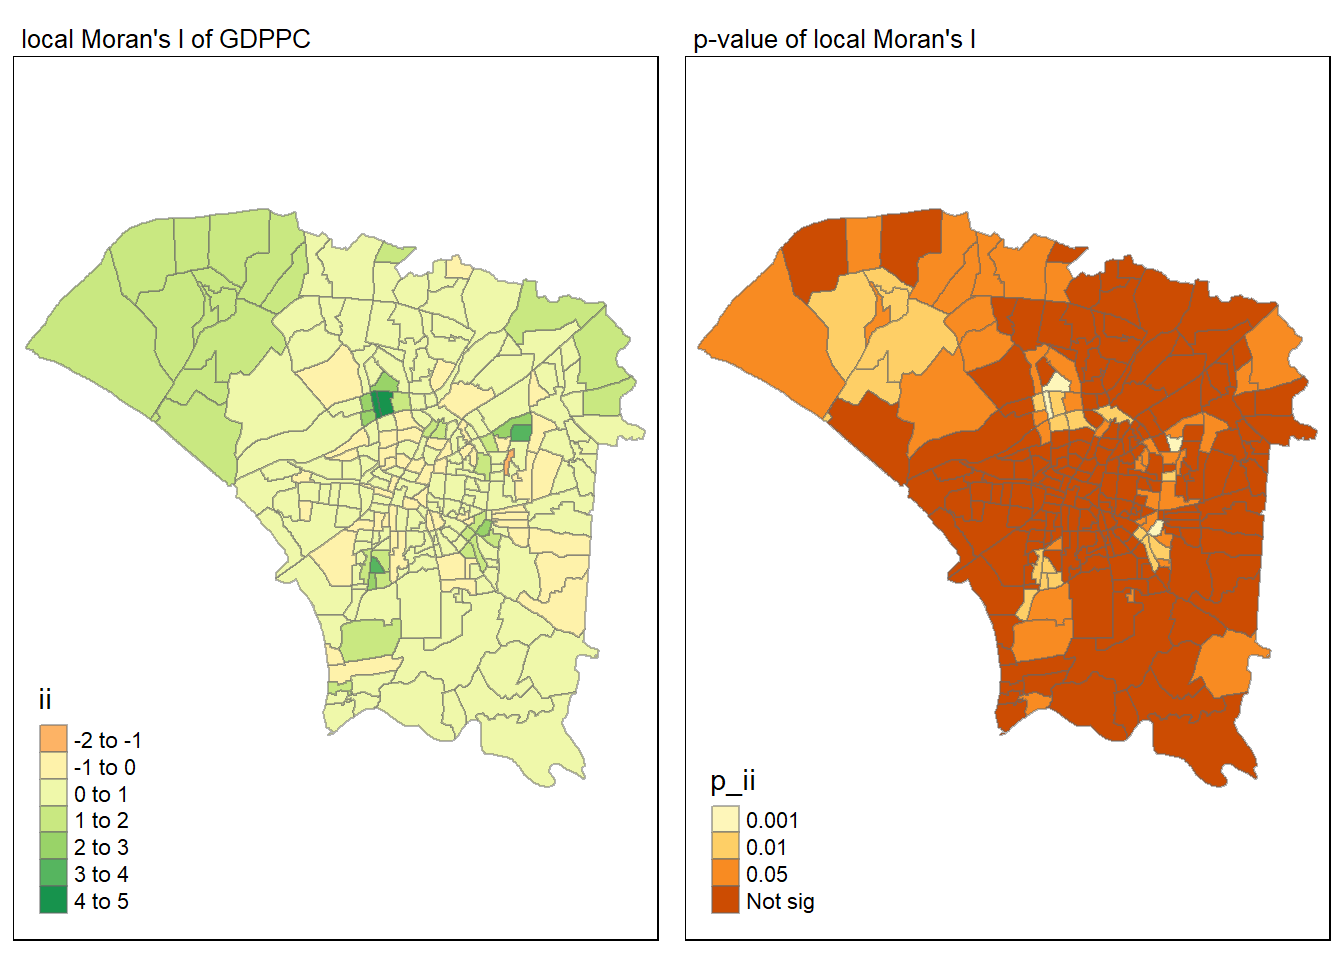
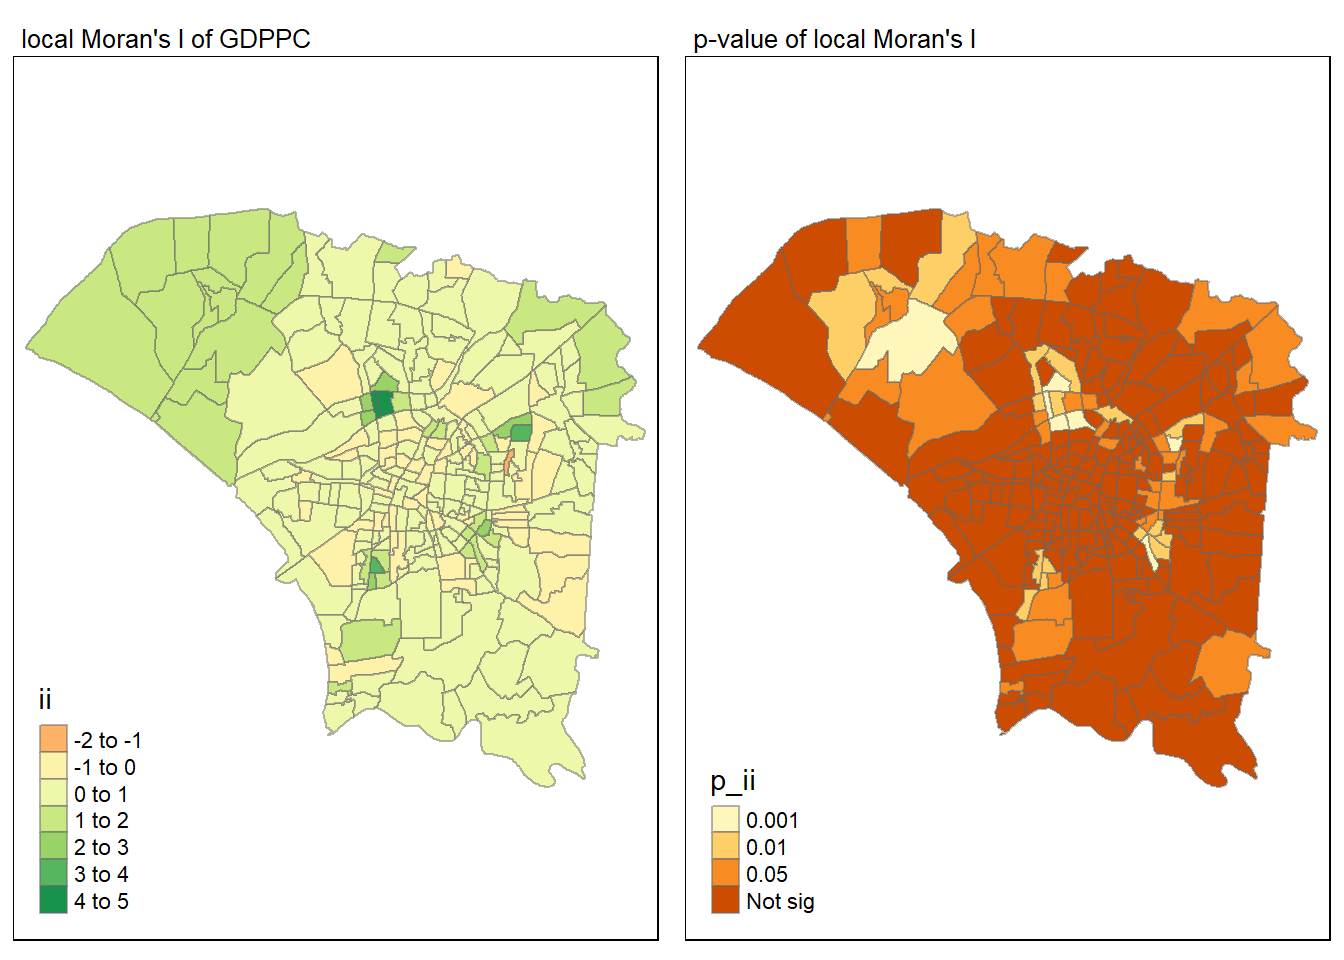
Update take home 2 directory

diff --git a/_site/Take-home_Ex/Take-home_Ex02/Take-home_Ex02.html b/_site/Take-home_Ex/Take-home_Ex02/Take-home_Ex02.html
@@ -233,8 +233,15 @@ pre > code.sourceCode > span > a:first-child::before { text-decoration: underlin
   <ul class="collapse">
   <li><a href="#using-global-morans-i" id="toc-using-global-morans-i" class="nav-link" data-scroll-target="#using-global-morans-i">8.1 Using Global Moran’s I</a></li>
   <li><a href="#using-global-morans-i-with-permutation" id="toc-using-global-morans-i-with-permutation" class="nav-link" data-scroll-target="#using-global-morans-i-with-permutation">8.2 Using Global Moran’s I with permutation</a></li>
+  </ul></li>
+  <li><a href="#local-spatial-autocorrelation-analysis" id="toc-local-spatial-autocorrelation-analysis" class="nav-link" data-scroll-target="#local-spatial-autocorrelation-analysis">9.0 Local Spatial Autocorrelation Analysis</a>
+  <ul class="collapse">
   <li><a href="#computing-the-local-indicator-of-spatial-association-lisa" id="toc-computing-the-local-indicator-of-spatial-association-lisa" class="nav-link" data-scroll-target="#computing-the-local-indicator-of-spatial-association-lisa">9.1 Computing the Local Indicator of Spatial Association (LISA)</a></li>
   <li><a href="#visuaising-local-morans-i-and-p-value-we-will-visualise-the-local-spatial-autocorrelation-using-a-map-together-with-the-p-value.-this-allows-for-the-identification-of-the-clusters-and-outliers-in-the-number-of-dengue-cases-in-tainan-city-that-are-significant-at-the-0.05-level." id="toc-visuaising-local-morans-i-and-p-value-we-will-visualise-the-local-spatial-autocorrelation-using-a-map-together-with-the-p-value.-this-allows-for-the-identification-of-the-clusters-and-outliers-in-the-number-of-dengue-cases-in-tainan-city-that-are-significant-at-the-0.05-level." class="nav-link" data-scroll-target="#visuaising-local-morans-i-and-p-value-we-will-visualise-the-local-spatial-autocorrelation-using-a-map-together-with-the-p-value.-this-allows-for-the-identification-of-the-clusters-and-outliers-in-the-number-of-dengue-cases-in-tainan-city-that-are-significant-at-the-0.05-level.">9.2 Visuaising local Moran’s I and p-value We will visualise the local spatial autocorrelation using a map together with the p value. This allows for the identification of the clusters and outliers in the number of dengue cases in Tainan City that are significant at the 0.05 level.</a></li>
+  <li><a href="#visualising-lisa-map" id="toc-visualising-lisa-map" class="nav-link" data-scroll-target="#visualising-lisa-map">9.3 Visualising LISA map</a></li>
+  </ul></li>
+  <li><a href="#emerging-hotspot-analysis-ehsa" id="toc-emerging-hotspot-analysis-ehsa" class="nav-link" data-scroll-target="#emerging-hotspot-analysis-ehsa">10.0 Emerging Hotspot Analysis (EHSA)</a>
+  <ul class="collapse">
   <li><a href="#creating-a-time-series-cube" id="toc-creating-a-time-series-cube" class="nav-link" data-scroll-target="#creating-a-time-series-cube">10.1 Creating a Time Series Cube</a></li>
   <li><a href="#deriving-spatial-weight-matrix" id="toc-deriving-spatial-weight-matrix" class="nav-link" data-scroll-target="#deriving-spatial-weight-matrix">10.2 Deriving Spatial Weight Matrix</a></li>
   <li><a href="#computing-local-gi-statistics" id="toc-computing-local-gi-statistics" class="nav-link" data-scroll-target="#computing-local-gi-statistics">10.3 Computing Local Gi* Statistics</a></li>
@@ -689,9 +696,11 @@ alternative hypothesis: two.sided</code></pre>
 </div>
 </div>
 <p>The global Moran’s I value is 0.2 and the p-value is 0.001. This indicates that there is a significant spatial autocorrelation in the number of dengue cases in Tainan City, in our interest of village studies. This results is consistent with the previous test.</p>
-<p>#9.0 Local Spatial Autocorrelation Analysis</p>
-<p>We will now perform local spatial autocorrelation analysis to identify the clusters and outliers in the number of dengue cases in Tainan City. We will be using the <code>sfdep</code> package to perform the local spatial autocorrelation analysis.This analysis will go into the localised spatial patterns of the dengue cases in our interest of study.</p>
 </section>
+</section>
+<section id="local-spatial-autocorrelation-analysis" class="level1">
+<h1>9.0 Local Spatial Autocorrelation Analysis</h1>
+<p>We will now perform local spatial autocorrelation analysis to identify the clusters and outliers in the number of dengue cases in Tainan City. We will be using the <code>sfdep</code> package to perform the local spatial autocorrelation analysis.This analysis will go into the localised spatial patterns of the dengue cases in our interest of study.</p>
 <section id="computing-the-local-indicator-of-spatial-association-lisa" class="level2">
 <h2 class="anchored" data-anchor-id="computing-the-local-indicator-of-spatial-association-lisa">9.1 Computing the Local Indicator of Spatial Association (LISA)</h2>
 <div class="cell">
@@ -737,7 +746,9 @@ alternative hypothesis: two.sided</code></pre>
 <li><p>There are many outliers of villages which are associated with relatively low values of surrounding villages, these results are significant at the 0.05 level.</p></li>
 <li><p>The map also shows an outlier indicated in orange. This outlier is significant at the 0.05 level. This indicates that there are some villages that have a low number of dengue cases and are surrounded by villages with a high number of dengue cases.</p></li>
 </ul>
-<p>##9.3 Visualising LISA map</p>
+</section>
+<section id="visualising-lisa-map" class="level2">
+<h2 class="anchored" data-anchor-id="visualising-lisa-map">9.3 Visualising LISA map</h2>
 <p>LISA map is a categorical map showing outliers and clusters. There are two types of outliers namely: High-Low and Low-High outliers. Likewise, there are two type of clusters namely: High-High and Low-Low clusters. In fact, LISA map is an interpreted map by combining local Moran’s I of geographical areas and their respective p-values.</p>
 <p>In lisa sf data.frame, we can find three fields contain the LISA categories. They are mean, median and pysal. In general, classification in mean will be used as shown in the code chunk below.</p>
 <div class="cell">
@@ -763,13 +774,15 @@ alternative hypothesis: two.sided</code></pre>
 <li><p>While the villages in red make up significant clusters of “high-high” values, implying the clusters are mostly high number of dengue cases</p></li>
 <li><p>There are some villages in purple, showing that they are villages with low numbers of dengue cases, surrounding the villages with higher numbers of dengue cases.</p></li>
 </ul>
-<p>#10.0 Emerging Hotspot Analysis (EHSA)</p>
+</section>
+</section>
+<section id="emerging-hotspot-analysis-ehsa" class="level1">
+<h1>10.0 Emerging Hotspot Analysis (EHSA)</h1>
 <p>Emerging hotspot analysis is a method used to identify the emerging hot spot/cold spot areas in a study area. We will be using the <code>sfdep</code> package to perform the emerging hot spot analysis.</p>
 <ul>
 <li><p>This is useful in our case to determine the possible hot spot of dengue cases in Tainan City so that the local government can take preventive measures to reduce the spread of dengue fever.</p></li>
 <li><p>This study also allows us to uncover patterns of these hot-spots and cold spot, so as to better understand the spatial distribution of dengue cases in Tainan City.</p></li>
 </ul>
-</section>
 <section id="creating-a-time-series-cube" class="level2">
 <h2 class="anchored" data-anchor-id="creating-a-time-series-cube">10.1 Creating a Time Series Cube</h2>
 <p>The code below will group the dengue data that with have according to the TOWNNAME, VILLNAME, week and then summarise them by the total number of occurances which is the cases</p>
@@ -897,16 +910,16 @@ alternative hypothesis: two.sided</code></pre>
 # Groups:   week [20]
    VILLCODE     week cases                  geometry nb    wt    gi_star    e_gi
    &lt;chr&gt;       &lt;int&gt; &lt;int&gt;            &lt;GEOMETRY [°]&gt; &lt;lis&gt; &lt;lis&gt;   &lt;dbl&gt;   &lt;dbl&gt;
- 1 67000350032    31     0  GEOMETRYCOLLECTION EMPTY &lt;int&gt; &lt;dbl&gt;  -0.815 0.00232
+ 1 67000350032    31     0  GEOMETRYCOLLECTION EMPTY &lt;int&gt; &lt;dbl&gt;  -0.815 0.00205
  2 67000270011    31     1 POINT (120.2413 22.92115) &lt;int&gt; &lt;dbl&gt;   0.281 0.00375
- 3 67000370005    31     0  GEOMETRYCOLLECTION EMPTY &lt;int&gt; &lt;dbl&gt;  -0.463 0.00305
- 4 67000330004    31     0  GEOMETRYCOLLECTION EMPTY &lt;int&gt; &lt;dbl&gt;  -0.256 0.00293
- 5 67000350028    31     0  GEOMETRYCOLLECTION EMPTY &lt;int&gt; &lt;dbl&gt;  -0.895 0.00278
- 6 67000350030    31     0  GEOMETRYCOLLECTION EMPTY &lt;int&gt; &lt;dbl&gt;  -1.10  0.00306
- 7 67000370009    31     0  GEOMETRYCOLLECTION EMPTY &lt;int&gt; &lt;dbl&gt;  -0.895 0.00263
- 8 67000350017    31     0  GEOMETRYCOLLECTION EMPTY &lt;int&gt; &lt;dbl&gt;  -0.745 0.00310
+ 3 67000370005    31     0  GEOMETRYCOLLECTION EMPTY &lt;int&gt; &lt;dbl&gt;  -0.463 0.00293
+ 4 67000330004    31     0  GEOMETRYCOLLECTION EMPTY &lt;int&gt; &lt;dbl&gt;  -0.256 0.00273
+ 5 67000350028    31     0  GEOMETRYCOLLECTION EMPTY &lt;int&gt; &lt;dbl&gt;  -0.895 0.00242
+ 6 67000350030    31     0  GEOMETRYCOLLECTION EMPTY &lt;int&gt; &lt;dbl&gt;  -1.10  0.00280
+ 7 67000370009    31     0  GEOMETRYCOLLECTION EMPTY &lt;int&gt; &lt;dbl&gt;  -0.895 0.00251
+ 8 67000350017    31     0  GEOMETRYCOLLECTION EMPTY &lt;int&gt; &lt;dbl&gt;  -0.745 0.00325
  9 67000350049    31     0  GEOMETRYCOLLECTION EMPTY &lt;int&gt; &lt;dbl&gt;   0.420 0.00296
-10 67000350018    31     0  GEOMETRYCOLLECTION EMPTY &lt;int&gt; &lt;dbl&gt;  -0.907 0.00301
+10 67000350018    31     0  GEOMETRYCOLLECTION EMPTY &lt;int&gt; &lt;dbl&gt;  -0.907 0.00278
 # ℹ 5,150 more rows
 # ℹ 6 more variables: var_gi &lt;dbl&gt;, p_value &lt;dbl&gt;, p_sim &lt;dbl&gt;,
 #   p_folded_sim &lt;dbl&gt;, skewness &lt;dbl&gt;, kurtosis &lt;dbl&gt;</code></pre>
@@ -952,8 +965,8 @@ alternative hypothesis: two.sided</code></pre>
 <span id="cb52-6"><a href="#cb52-6" aria-hidden="true" tabindex="-1"></a><span class="fu">ggplotly</span>(p)</span></code><button title="Copy to Clipboard" class="code-copy-button"><i class="bi"></i></button></pre></div>
 </details>
 <div class="cell-output-display">
-<div class="plotly html-widget html-fill-item" id="htmlwidget-0ae89400e6fe030de358" style="width:100%;height:464px;"></div>
-<script type="application/json" data-for="htmlwidget-0ae89400e6fe030de358">{"x":{"data":[{"x":[31,32,33,34,35,36,37,38,39,40,41,42,43,44,45,46,47,48,49,50],"y":[0.28149943923759674,-0.64635332607618201,-1.0470355910647247,-1.0109932627693536,-1.648949387579183,-1.7411145852170484,-1.874601025644566,-1.9453998574154465,-1.732089794439875,-2.0774396939491284,-1.670389926758167,-1.6788144645541574,-1.7953344491110184,-2.098247243823991,-2.1092845685591022,-2.017685444448742,-0.59217278358979397,-0.8566174837431062,-0.15302051479043507,0.49287796133018957],"text":["week: 31<br />gi_star:  0.2814994","week: 32<br />gi_star: -0.6463533","week: 33<br />gi_star: -1.0470356","week: 34<br />gi_star: -1.0109933","week: 35<br />gi_star: -1.6489494","week: 36<br />gi_star: -1.7411146","week: 37<br />gi_star: -1.8746010","week: 38<br />gi_star: -1.9453999","week: 39<br />gi_star: -1.7320898","week: 40<br />gi_star: -2.0774397","week: 41<br />gi_star: -1.6703899","week: 42<br />gi_star: -1.6788145","week: 43<br />gi_star: -1.7953344","week: 44<br />gi_star: -2.0982472","week: 45<br />gi_star: -2.1092846","week: 46<br />gi_star: -2.0176854","week: 47<br />gi_star: -0.5921728","week: 48<br />gi_star: -0.8566175","week: 49<br />gi_star: -0.1530205","week: 50<br />gi_star:  0.4928780"],"type":"scatter","mode":"lines","line":{"width":1.8897637795275593,"color":"rgba(0,0,0,1)","dash":"solid"},"hoveron":"points","showlegend":false,"xaxis":"x","yaxis":"y","hoverinfo":"text","frame":null},{"x":[31,32,33,34,35,36,37,38,39,40,41,42,43,44,45,46,47,48,49,50],"y":[0,0,0,0,0,0,0,0,0,0,0,0,0,0,0,0,0,0,0,0],"text":["week: 31<br />gi_star: 0","week: 32<br />gi_star: 0","week: 33<br />gi_star: 0","week: 34<br />gi_star: 0","week: 35<br />gi_star: 0","week: 36<br />gi_star: 0","week: 37<br />gi_star: 0","week: 38<br />gi_star: 0","week: 39<br />gi_star: 0","week: 40<br />gi_star: 0","week: 41<br />gi_star: 0","week: 42<br />gi_star: 0","week: 43<br />gi_star: 0","week: 44<br />gi_star: 0","week: 45<br />gi_star: 0","week: 46<br />gi_star: 0","week: 47<br />gi_star: 0","week: 48<br />gi_star: 0","week: 49<br />gi_star: 0","week: 50<br />gi_star: 0"],"type":"scatter","mode":"lines","line":{"width":1.8897637795275593,"color":"rgba(0,0,0,1)","dash":"solid"},"hoveron":"points","showlegend":false,"xaxis":"x","yaxis":"y","hoverinfo":"text","frame":null}],"layout":{"margin":{"t":26.228310502283104,"r":7.3059360730593621,"b":40.182648401826491,"l":48.949771689497723},"plot_bgcolor":"rgba(235,235,235,1)","paper_bgcolor":"rgba(255,255,255,1)","font":{"color":"rgba(0,0,0,1)","family":"","size":14.611872146118724},"xaxis":{"domain":[0,1],"automargin":true,"type":"linear","autorange":false,"range":[30.050000000000001,50.950000000000003],"tickmode":"array","ticktext":["35","40","45","50"],"tickvals":[35,40,45,50],"categoryorder":"array","categoryarray":["35","40","45","50"],"nticks":null,"ticks":"outside","tickcolor":"rgba(51,51,51,1)","ticklen":3.6529680365296811,"tickwidth":0.66417600664176002,"showticklabels":true,"tickfont":{"color":"rgba(77,77,77,1)","family":"","size":11.68949771689498},"tickangle":-0,"showline":false,"linecolor":null,"linewidth":0,"showgrid":true,"gridcolor":"rgba(255,255,255,1)","gridwidth":0.66417600664176002,"zeroline":false,"anchor":"y","title":{"text":"week","font":{"color":"rgba(0,0,0,1)","family":"","size":14.611872146118724}},"hoverformat":".2f"},"yaxis":{"domain":[0,1],"automargin":true,"type":"linear","autorange":false,"range":[-2.2393926950535668,0.62298608782465414],"tickmode":"array","ticktext":["-2.0","-1.5","-1.0","-0.5","0.0","0.5"],"tickvals":[-2,-1.5,-1,-0.5,0,0.5],"categoryorder":"array","categoryarray":["-2.0","-1.5","-1.0","-0.5","0.0","0.5"],"nticks":null,"ticks":"outside","tickcolor":"rgba(51,51,51,1)","ticklen":3.6529680365296811,"tickwidth":0.66417600664176002,"showticklabels":true,"tickfont":{"color":"rgba(77,77,77,1)","family":"","size":11.68949771689498},"tickangle":-0,"showline":false,"linecolor":null,"linewidth":0,"showgrid":true,"gridcolor":"rgba(255,255,255,1)","gridwidth":0.66417600664176002,"zeroline":false,"anchor":"x","title":{"text":"gi_star","font":{"color":"rgba(0,0,0,1)","family":"","size":14.611872146118724}},"hoverformat":".2f"},"shapes":[{"type":"rect","fillcolor":null,"line":{"color":null,"width":0,"linetype":[]},"yref":"paper","xref":"paper","x0":0,"x1":1,"y0":0,"y1":1}],"showlegend":false,"legend":{"bgcolor":"rgba(255,255,255,1)","bordercolor":"transparent","borderwidth":1.8897637795275593,"font":{"color":"rgba(0,0,0,1)","family":"","size":11.68949771689498}},"hovermode":"closest","barmode":"relative"},"config":{"doubleClick":"reset","modeBarButtonsToAdd":["hoverclosest","hovercompare"],"showSendToCloud":false},"source":"A","attrs":{"8eac4047109d":{"x":{},"y":{},"type":"scatter"},"8eac5d4856b4":{"x":{},"y":{}}},"cur_data":"8eac4047109d","visdat":{"8eac4047109d":["function (y) ","x"],"8eac5d4856b4":["function (y) ","x"]},"highlight":{"on":"plotly_click","persistent":false,"dynamic":false,"selectize":false,"opacityDim":0.20000000000000001,"selected":{"opacity":1},"debounce":0},"shinyEvents":["plotly_hover","plotly_click","plotly_selected","plotly_relayout","plotly_brushed","plotly_brushing","plotly_clickannotation","plotly_doubleclick","plotly_deselect","plotly_afterplot","plotly_sunburstclick"],"base_url":"https://plot.ly"},"evals":[],"jsHooks":[]}</script>
+<div class="plotly html-widget html-fill-item" id="htmlwidget-2f72ce6e1356df0e6dbd" style="width:100%;height:464px;"></div>
+<script type="application/json" data-for="htmlwidget-2f72ce6e1356df0e6dbd">{"x":{"data":[{"x":[31,32,33,34,35,36,37,38,39,40,41,42,43,44,45,46,47,48,49,50],"y":[0.28149943923759674,-0.64635332607618201,-1.0470355910647247,-1.0109932627693536,-1.648949387579183,-1.7411145852170484,-1.874601025644566,-1.9453998574154465,-1.732089794439875,-2.0774396939491284,-1.670389926758167,-1.6788144645541574,-1.7953344491110184,-2.098247243823991,-2.1092845685591022,-2.017685444448742,-0.59217278358979397,-0.8566174837431062,-0.15302051479043507,0.49287796133018957],"text":["week: 31<br />gi_star:  0.2814994","week: 32<br />gi_star: -0.6463533","week: 33<br />gi_star: -1.0470356","week: 34<br />gi_star: -1.0109933","week: 35<br />gi_star: -1.6489494","week: 36<br />gi_star: -1.7411146","week: 37<br />gi_star: -1.8746010","week: 38<br />gi_star: -1.9453999","week: 39<br />gi_star: -1.7320898","week: 40<br />gi_star: -2.0774397","week: 41<br />gi_star: -1.6703899","week: 42<br />gi_star: -1.6788145","week: 43<br />gi_star: -1.7953344","week: 44<br />gi_star: -2.0982472","week: 45<br />gi_star: -2.1092846","week: 46<br />gi_star: -2.0176854","week: 47<br />gi_star: -0.5921728","week: 48<br />gi_star: -0.8566175","week: 49<br />gi_star: -0.1530205","week: 50<br />gi_star:  0.4928780"],"type":"scatter","mode":"lines","line":{"width":1.8897637795275593,"color":"rgba(0,0,0,1)","dash":"solid"},"hoveron":"points","showlegend":false,"xaxis":"x","yaxis":"y","hoverinfo":"text","frame":null},{"x":[31,32,33,34,35,36,37,38,39,40,41,42,43,44,45,46,47,48,49,50],"y":[0,0,0,0,0,0,0,0,0,0,0,0,0,0,0,0,0,0,0,0],"text":["week: 31<br />gi_star: 0","week: 32<br />gi_star: 0","week: 33<br />gi_star: 0","week: 34<br />gi_star: 0","week: 35<br />gi_star: 0","week: 36<br />gi_star: 0","week: 37<br />gi_star: 0","week: 38<br />gi_star: 0","week: 39<br />gi_star: 0","week: 40<br />gi_star: 0","week: 41<br />gi_star: 0","week: 42<br />gi_star: 0","week: 43<br />gi_star: 0","week: 44<br />gi_star: 0","week: 45<br />gi_star: 0","week: 46<br />gi_star: 0","week: 47<br />gi_star: 0","week: 48<br />gi_star: 0","week: 49<br />gi_star: 0","week: 50<br />gi_star: 0"],"type":"scatter","mode":"lines","line":{"width":1.8897637795275593,"color":"rgba(0,0,0,1)","dash":"solid"},"hoveron":"points","showlegend":false,"xaxis":"x","yaxis":"y","hoverinfo":"text","frame":null}],"layout":{"margin":{"t":26.228310502283104,"r":7.3059360730593621,"b":40.182648401826491,"l":48.949771689497723},"plot_bgcolor":"rgba(235,235,235,1)","paper_bgcolor":"rgba(255,255,255,1)","font":{"color":"rgba(0,0,0,1)","family":"","size":14.611872146118724},"xaxis":{"domain":[0,1],"automargin":true,"type":"linear","autorange":false,"range":[30.050000000000001,50.950000000000003],"tickmode":"array","ticktext":["35","40","45","50"],"tickvals":[35,40,45,50],"categoryorder":"array","categoryarray":["35","40","45","50"],"nticks":null,"ticks":"outside","tickcolor":"rgba(51,51,51,1)","ticklen":3.6529680365296811,"tickwidth":0.66417600664176002,"showticklabels":true,"tickfont":{"color":"rgba(77,77,77,1)","family":"","size":11.68949771689498},"tickangle":-0,"showline":false,"linecolor":null,"linewidth":0,"showgrid":true,"gridcolor":"rgba(255,255,255,1)","gridwidth":0.66417600664176002,"zeroline":false,"anchor":"y","title":{"text":"week","font":{"color":"rgba(0,0,0,1)","family":"","size":14.611872146118724}},"hoverformat":".2f"},"yaxis":{"domain":[0,1],"automargin":true,"type":"linear","autorange":false,"range":[-2.2393926950535668,0.62298608782465414],"tickmode":"array","ticktext":["-2.0","-1.5","-1.0","-0.5","0.0","0.5"],"tickvals":[-2,-1.5,-1,-0.5,0,0.5],"categoryorder":"array","categoryarray":["-2.0","-1.5","-1.0","-0.5","0.0","0.5"],"nticks":null,"ticks":"outside","tickcolor":"rgba(51,51,51,1)","ticklen":3.6529680365296811,"tickwidth":0.66417600664176002,"showticklabels":true,"tickfont":{"color":"rgba(77,77,77,1)","family":"","size":11.68949771689498},"tickangle":-0,"showline":false,"linecolor":null,"linewidth":0,"showgrid":true,"gridcolor":"rgba(255,255,255,1)","gridwidth":0.66417600664176002,"zeroline":false,"anchor":"x","title":{"text":"gi_star","font":{"color":"rgba(0,0,0,1)","family":"","size":14.611872146118724}},"hoverformat":".2f"},"shapes":[{"type":"rect","fillcolor":null,"line":{"color":null,"width":0,"linetype":[]},"yref":"paper","xref":"paper","x0":0,"x1":1,"y0":0,"y1":1}],"showlegend":false,"legend":{"bgcolor":"rgba(255,255,255,1)","bordercolor":"transparent","borderwidth":1.8897637795275593,"font":{"color":"rgba(0,0,0,1)","family":"","size":11.68949771689498}},"hovermode":"closest","barmode":"relative"},"config":{"doubleClick":"reset","modeBarButtonsToAdd":["hoverclosest","hovercompare"],"showSendToCloud":false},"source":"A","attrs":{"92386dba27d":{"x":{},"y":{},"type":"scatter"},"923866bf33cc":{"x":{},"y":{}}},"cur_data":"92386dba27d","visdat":{"92386dba27d":["function (y) ","x"],"923866bf33cc":["function (y) ","x"]},"highlight":{"on":"plotly_click","persistent":false,"dynamic":false,"selectize":false,"opacityDim":0.20000000000000001,"selected":{"opacity":1},"debounce":0},"shinyEvents":["plotly_hover","plotly_click","plotly_selected","plotly_relayout","plotly_brushed","plotly_brushing","plotly_clickannotation","plotly_doubleclick","plotly_deselect","plotly_afterplot","plotly_sunburstclick"],"base_url":"https://plot.ly"},"evals":[],"jsHooks":[]}</script>
 </div>
 </div>
 </section>
@@ -998,14 +1011,14 @@ alternative hypothesis: two.sided</code></pre>
 </details>
 <div class="cell-output cell-output-stdout">
 <pre><code># A tibble: 6 × 4
-  location      tau  p_value classification     
-  &lt;chr&gt;       &lt;dbl&gt;    &lt;dbl&gt; &lt;chr&gt;              
-1 67000350032 0.411 0.0125   oscilating coldspot
-2 67000270011 0.358 0.0297   oscilating coldspot
-3 67000370005 0.579 0.000406 oscilating hotspot 
-4 67000330004 0.421 0.0104   oscilating hotspot 
-5 67000350028 0.537 0.00105  new hotspot        
-6 67000350030 0.526 0.00132  oscilating hotspot </code></pre>
+  location      tau  p_value classification      
+  &lt;chr&gt;       &lt;dbl&gt;    &lt;dbl&gt; &lt;chr&gt;               
+1 67000350032 0.411 0.0125   sporadic coldspot   
+2 67000270011 0.358 0.0297   consecutive coldspot
+3 67000370005 0.579 0.000406 consecutive hotspot 
+4 67000330004 0.421 0.0104   oscilating hotspot  
+5 67000350028 0.537 0.00105  no pattern detected 
+6 67000350030 0.526 0.00132  consecutive hotspot </code></pre>
 </div>
 </div>
 <p>From the visualization, it seems like all villages have different pattern detected in terms of distribution. How significant is this result though?</p>
